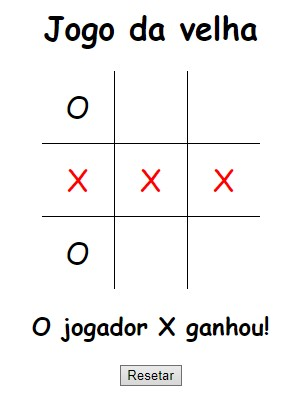
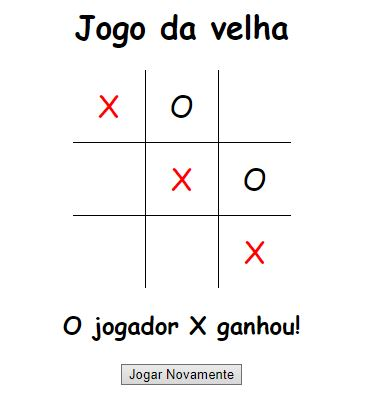
12-07-2022 23:34

diff --git a/Aulas/JavaScript/Aula 11-07-2022/notas/notas.js b/Aulas/JavaScript/Aula 11-07-2022/notas/notas.js
@@ -1,8 +1,10 @@
-$(function () {
+$(function() {
 
-    $('#calcular').click(function () {
-        let nome = $('#nome').val(), pTrim = $('#p-trim').val(),
-            sTrim = $('#s-trim').val(), tTrim = $('#t-trim').val();
+    $('#calcular').click(function() {
+        let nome = $('#nome').val(),
+            pTrim = $('#p-trim').val(),
+            sTrim = $('#s-trim').val(),
+            tTrim = $('#t-trim').val();
         if ([nome, pTrim, sTrim, tTrim].every(x => x !== '')) {
             let media = (+pTrim + +sTrim + +tTrim) / 3;
             let status = media < 15 ?
@@ -16,10 +18,7 @@ $(function () {
                             <td>${status}</td>
                         </tr>`;
             $('#tabela tbody tr:last').after(linha);
-            $('#nome').val('');
-            $('#p-trim').val('');
-            $('#s-trim').val('');
-            $('#t-trim').val('');
+            $('input').val('');
         } else alert('Informe os valores!');
     });
 

diff --git a/Aulas/JavaScript/Aula 11-07-2022/notas/index.html b/Aulas/JavaScript/Aula 11-07-2022/notas/index.html
@@ -47,8 +47,7 @@
             </tbody>
         </table>
     </div>
-    <script src="https://code.jquery.com/jquery-3.6.0.min.js"
-        integrity="sha256-/xUj+3OJU5yExlq6GSYGSHk7tPXikynS7ogEvDej/m4=" crossorigin="anonymous"></script>
+    <script src="https://code.jquery.com/jquery-3.6.0.min.js" integrity="sha256-/xUj+3OJU5yExlq6GSYGSHk7tPXikynS7ogEvDej/m4=" crossorigin="anonymous"></script>
     <script src="notas.js" type="text/javascript"></script>
 </body>
 

diff --git a/Aulas/JavaScript/Aula 11-07-2022/velha/velha.css b/Aulas/JavaScript/Aula 11-07-2022/velha/velha.css
@@ -59,9 +59,6 @@ table {
 
 .disabled-click {
     pointer-events: none;
-    cursor: default;
-    text-decoration: none;
-    color: black;
 }
 
 h2 {

diff --git a/Aulas/JavaScript/Aula 11-07-2022/velha/README.md b/Aulas/JavaScript/Aula 11-07-2022/velha/README.md
@@ -61,12 +61,11 @@
             </tr>
         </table>
         <h2></h2>
-        <button class="botao" type="button">Resetar</button>
+        <button class="botao" type="button">Jogar Novamente</button>
     </div>
 
     <script src="https://code.jquery.com/jquery-3.6.0.min.js"
-    integrity="sha256-/xUj+3OJU5yExlq6GSYGSHk7tPXikynS7ogEvDej/m4="
-    crossorigin="anonymous"></script>
+        integrity="sha256-/xUj+3OJU5yExlq6GSYGSHk7tPXikynS7ogEvDej/m4=" crossorigin="anonymous"></script>
     <script src="velha.js" type="text/javascript"></script>
 </body>
 
@@ -79,7 +78,7 @@ body {
 }
 
 table {
-    border-collapse: collapse;    
+    border-collapse: collapse;
 }
 
 table td {
@@ -135,9 +134,6 @@ table {
 
 .disabled-click {
     pointer-events: none;
-    cursor: default;
-    text-decoration: none;
-    color: black;
 }
 
 h2 {

diff --git a/Aulas/JavaScript/Aula 11-07-2022/notas/README.md b/Aulas/JavaScript/Aula 11-07-2022/notas/README.md
@@ -163,10 +163,7 @@ $(function () {
                             <td>${status}</td>
                         </tr>`;
             $('#tabela tbody tr:last').after(linha);
-            $('#nome').val('');
-            $('#p-trim').val('');
-            $('#s-trim').val('');
-            $('#t-trim').val('');
+            $('input').val('');
         } else alert('Informe os valores!');
     });
 
